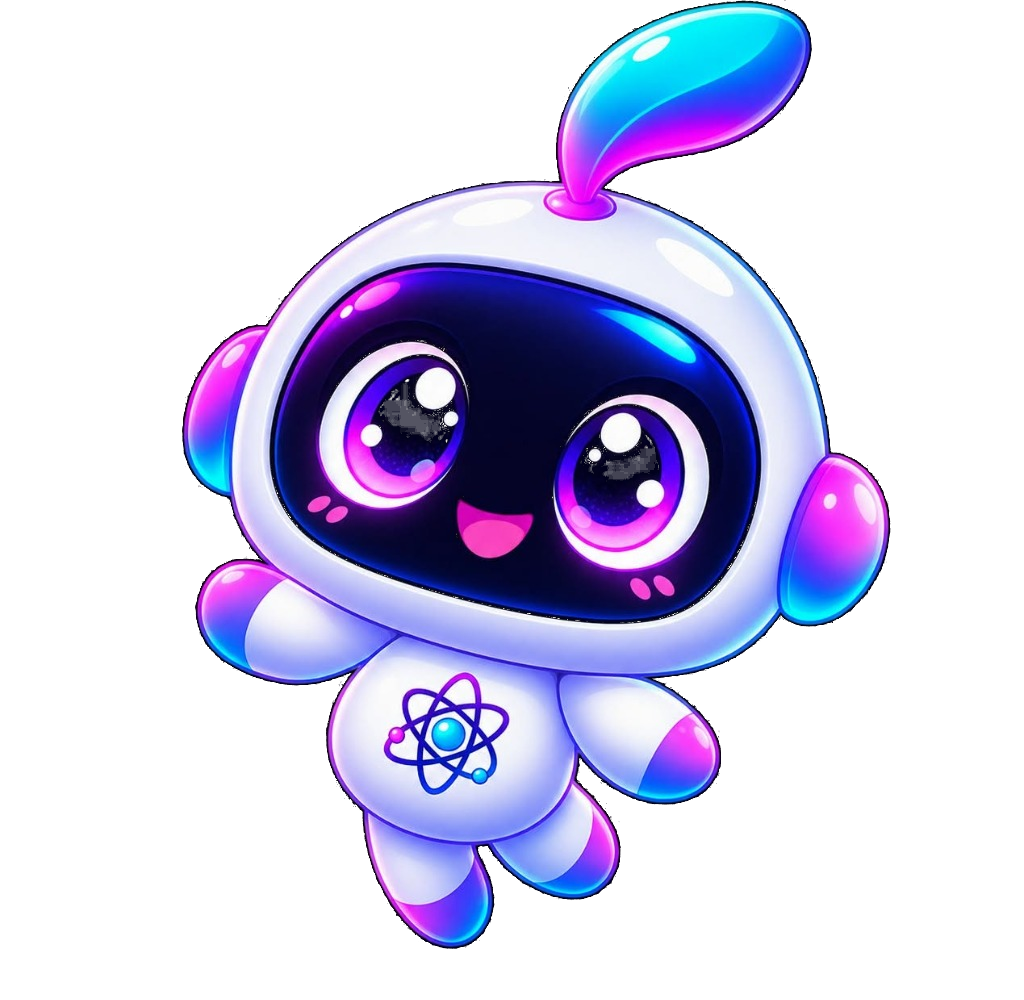
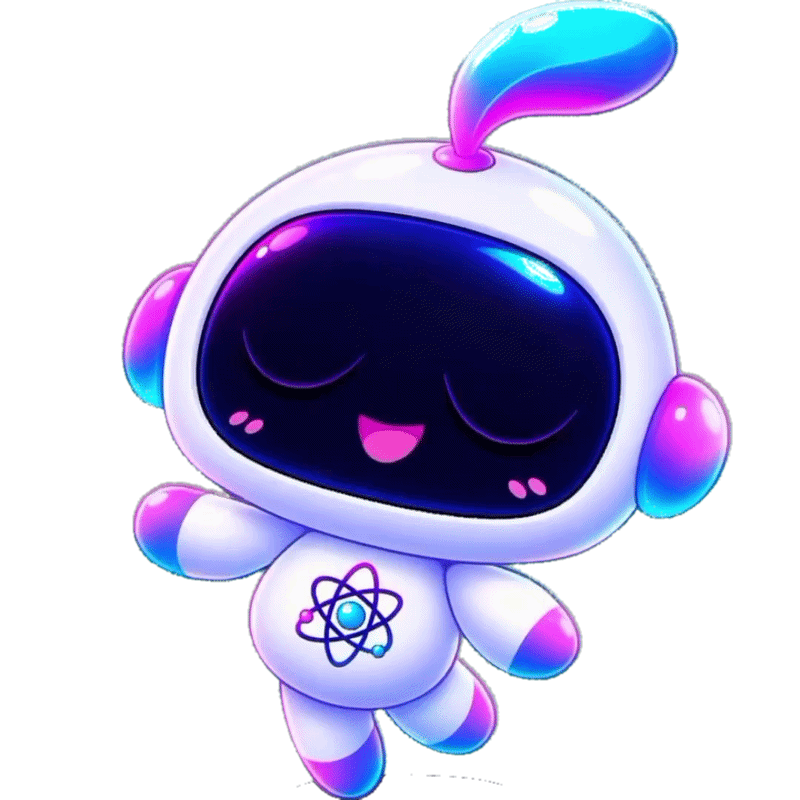
feat: set coolest.gif as transparent background mascot stage 1 (baby stage)

diff --git a/lib/widgets/mascot_3d_viewer.dart b/lib/widgets/mascot_3d_viewer.dart
@@ -359,6 +359,9 @@ class _Mascot3DViewerState extends State<Mascot3DViewer> with TickerProviderStat
 
   String _getMainMascotAssetPath() {
     final stageName = widget.stage.name;
+    if (stageName == 'baby') {
+      return 'assets/images/mascot/baby_main.gif';
+    }
     if (stageName == 'scientist') {
       return 'assets/images/mascot/scientist_main.gif';
     }
@@ -427,8 +430,8 @@ class _Mascot3DViewerState extends State<Mascot3DViewer> with TickerProviderStat
               final celVal = _celebrateController.value;
 
               // Physics-based natural floating bobbing (Y offset)
-              final isScientistGif = widget.stage == MascotStage.scientist;
-              final baseFloatY = isScientistGif ? 0.0 : math.sin(progress * math.pi) * 10.0;
+              final isAnimatedGif = widget.stage == MascotStage.baby || widget.stage == MascotStage.scientist;
+              final baseFloatY = isAnimatedGif ? 0.0 : math.sin(progress * math.pi) * 10.0;
               final jumpOffsetY = tapJump * 36.0;
               final celJumpY = math.sin(celVal * math.pi * 2) * 40.0;
               final totalOffsetY = baseFloatY + jumpOffsetY + celJumpY;
@@ -438,11 +441,11 @@ class _Mascot3DViewerState extends State<Mascot3DViewer> with TickerProviderStat
               final celTwist = math.sin(celVal * math.pi * 4) * 0.12;
 
               // Natural body sway / tilt (Z rotation in radians)
-              final bodySwayZ = isScientistGif ? 0.0 : (math.sin(progress * math.pi * 0.8) * 0.06 + _headTiltZ + waveBodySway + celTwist);
+              final bodySwayZ = isAnimatedGif ? 0.0 : (math.sin(progress * math.pi * 0.8) * 0.06 + _headTiltZ + waveBodySway + celTwist);
 
               // Squash & stretch scale deformation
-              final squashX = isScientistGif ? 1.0 : (1.0 + math.sin(progress * math.pi) * 0.035 - (tapJump * 0.08) + (math.sin(celVal * math.pi * 2) * 0.12));
-              final stretchY = isScientistGif ? 1.0 : (1.0 - math.sin(progress * math.pi) * 0.035 + (tapJump * 0.12) + (math.sin(celVal * math.pi * 2) * 0.15));
+              final squashX = isAnimatedGif ? 1.0 : (1.0 + math.sin(progress * math.pi) * 0.035 - (tapJump * 0.08) + (math.sin(celVal * math.pi * 2) * 0.12));
+              final stretchY = isAnimatedGif ? 1.0 : (1.0 - math.sin(progress * math.pi) * 0.035 + (tapJump * 0.12) + (math.sin(celVal * math.pi * 2) * 0.15));
 
               // 360 Spin Angle Offset
               final spinAngleY = spinVal * math.pi * 2;

diff --git a/web_simulator/js/character.js b/web_simulator/js/character.js
@@ -12,7 +12,7 @@ const EVOLUTION_STAGES = [
     stage: 1, 
     title: 'BABY', 
     icon: '👶', 
-    image: 'assets/mascot/baby_main.png',
+    image: 'assets/mascot/baby_main.gif',
     minXP: 0, 
     nextXP: 1000, 
     color: '#38BDF8', 
@@ -47,12 +47,12 @@ const EVOLUTION_STAGES = [
 
 const GENDER_CHARACTER_IMAGES = {
   male: {
-    baby: 'assets/mascot/baby_main.png',
+    baby: 'assets/mascot/baby_main.gif',
     student: 'assets/mascot/student_main.png',
     graduate: 'assets/mascot/scientist_main.gif'
   },
   female: {
-    baby: 'assets/mascot/baby_main.png',
+    baby: 'assets/mascot/baby_main.gif',
     student: 'assets/mascot/student_main.png',
     graduate: 'assets/mascot/scientist_main.gif'
   }
